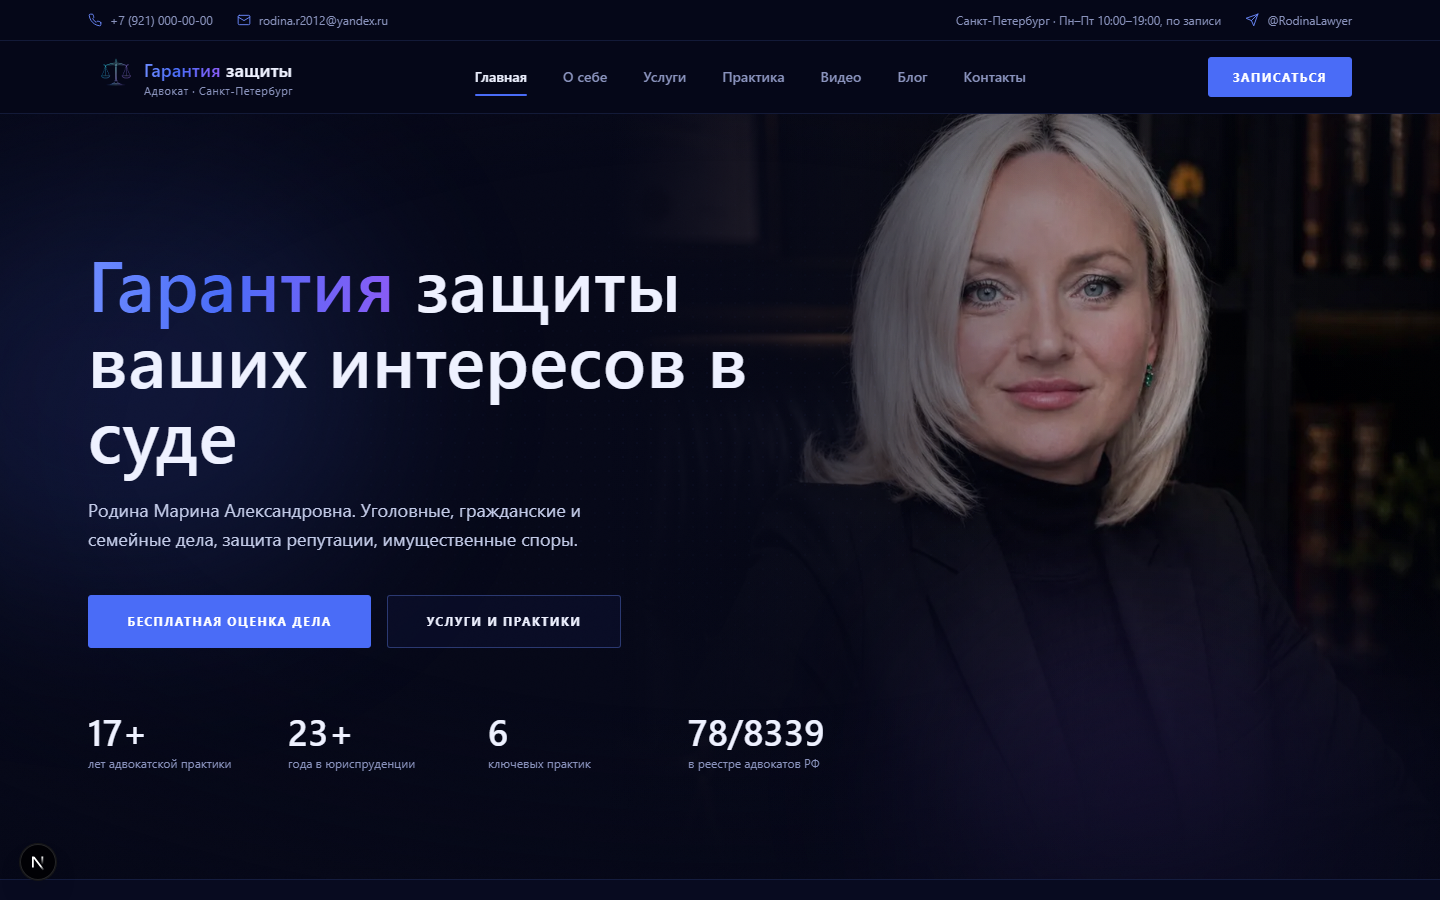
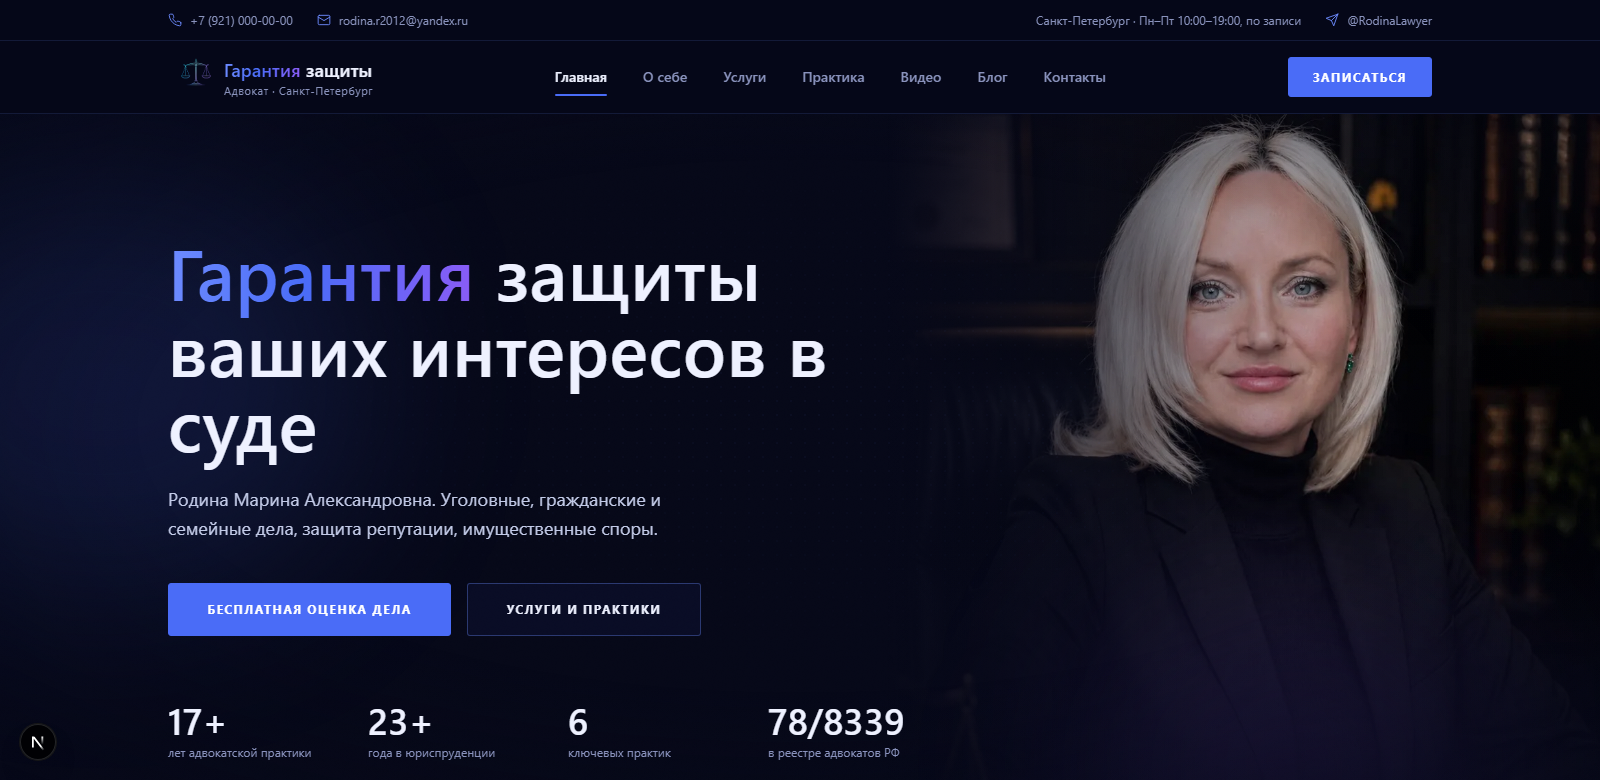
Hero: портрет показывается целиком — без обрезки макушки и приближения
Слой на всю высоту секции шириной 60% обрезал кадр по ширине: чем шире
блок, тем сильнее увеличение и тем больше уходит верх. На окнах высотой
около 780 срезало макушку.

Блок снова квадратный — как и сам кадр, — но теперь задаётся высотой
секции (h-full), а не долей ширины. Фотография при этом показывается
целиком: обрезки нет вообще, увеличение минимальное, справа видны полки.
max-w-64% страхует очень высокие окна.

Проверено на 1600x780, 1440x900, 1920x1080 и 1280x720.

diff --git a/app/page.tsx b/app/page.tsx
@@ -22,14 +22,17 @@ export default function Home() {
         {/* Реальный студийный портрет вместо AI-картинки с неоновыми полками.
             Кадр квадратный, поэтому прижат вправо и к низу — визуально
             повторяет прежнюю компоновку, но без нейросетевого фона. */}
-        <div className="hero-portrait pointer-events-none absolute inset-y-0 right-0 hidden w-[60%] lg:block">
+        {/* Блок квадратный, как и сам кадр, и занимает всю высоту секции.
+            Поэтому фотография показывается целиком: ничего не срезается
+            сверху и нет «приближения» — видны и фигура, и полки справа. */}
+        <div className="hero-portrait pointer-events-none absolute bottom-0 right-0 hidden aspect-square h-full max-w-[64%] lg:block">
           <Image
             src="/images/marina-portrait-hd.jpg"
             alt={`Адвокат ${site.lawyer}`}
             fill
             priority
-            className="object-cover object-[center_28%]"
-            sizes="60vw"
+            className="object-cover object-bottom"
+            sizes="64vw"
           />
         </div>
         <div className="absolute inset-0 bg-gradient-to-r from-ink-950 via-ink-950/70 to-transparent" />
